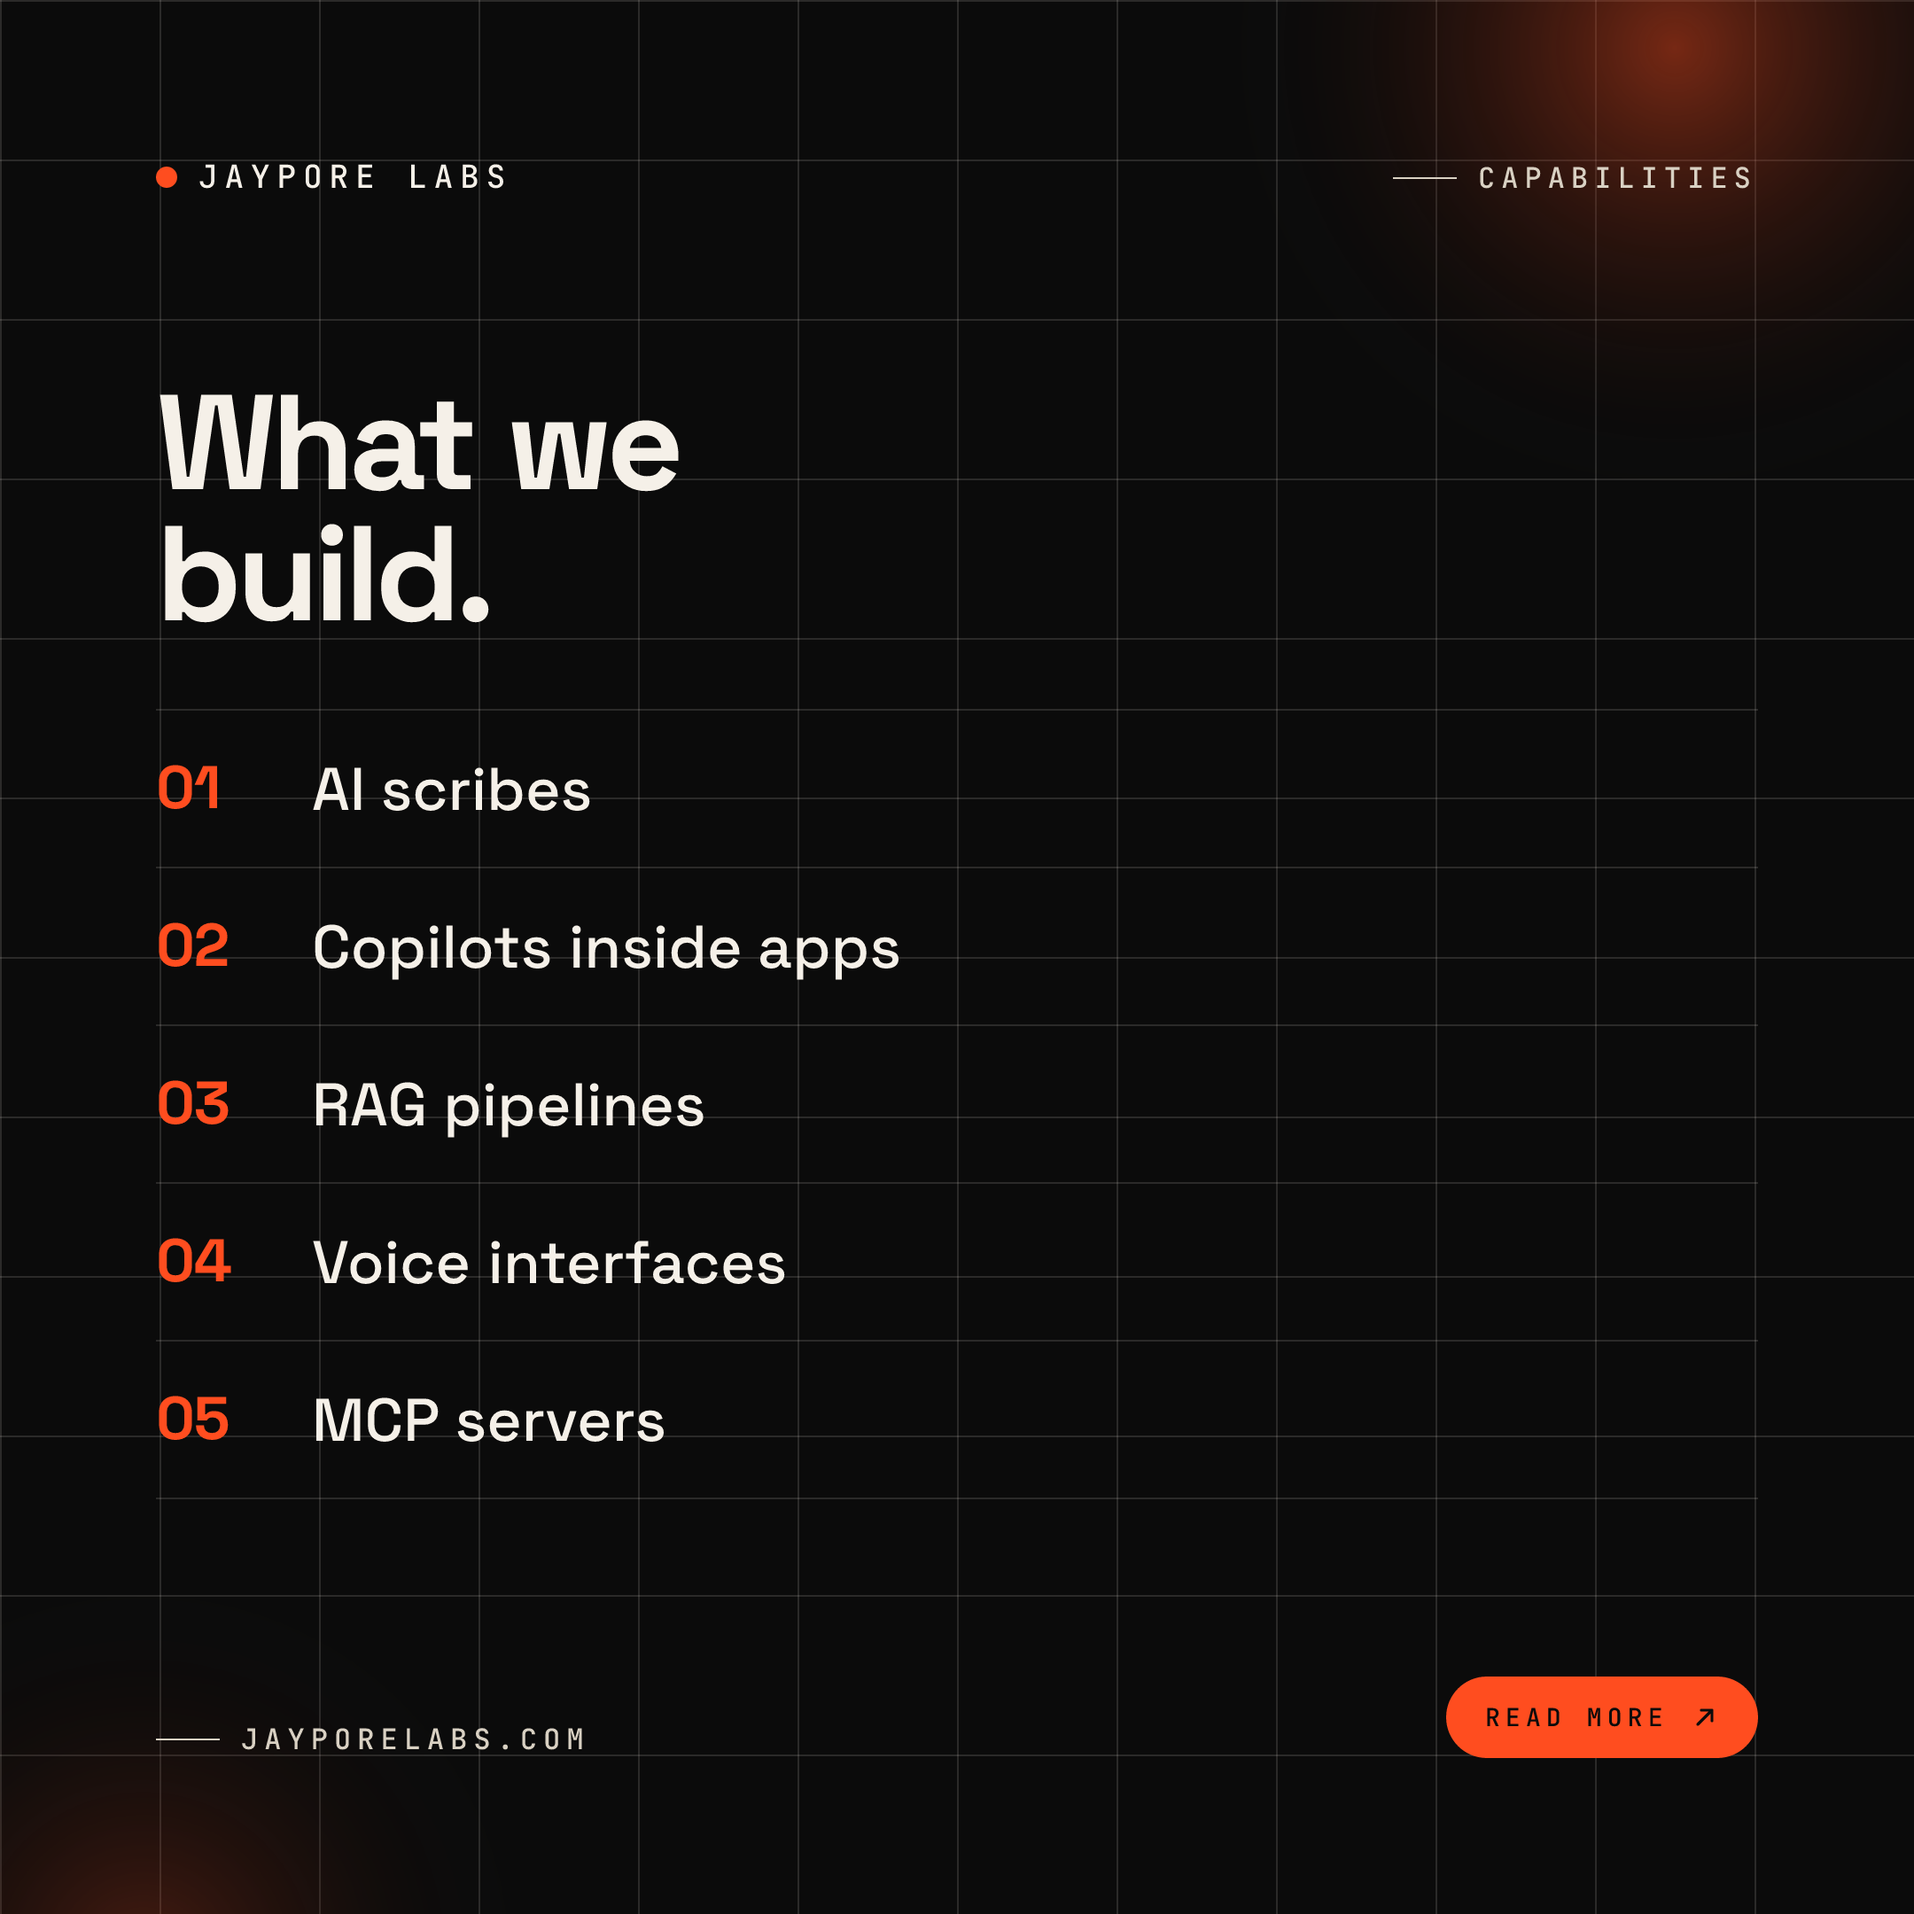
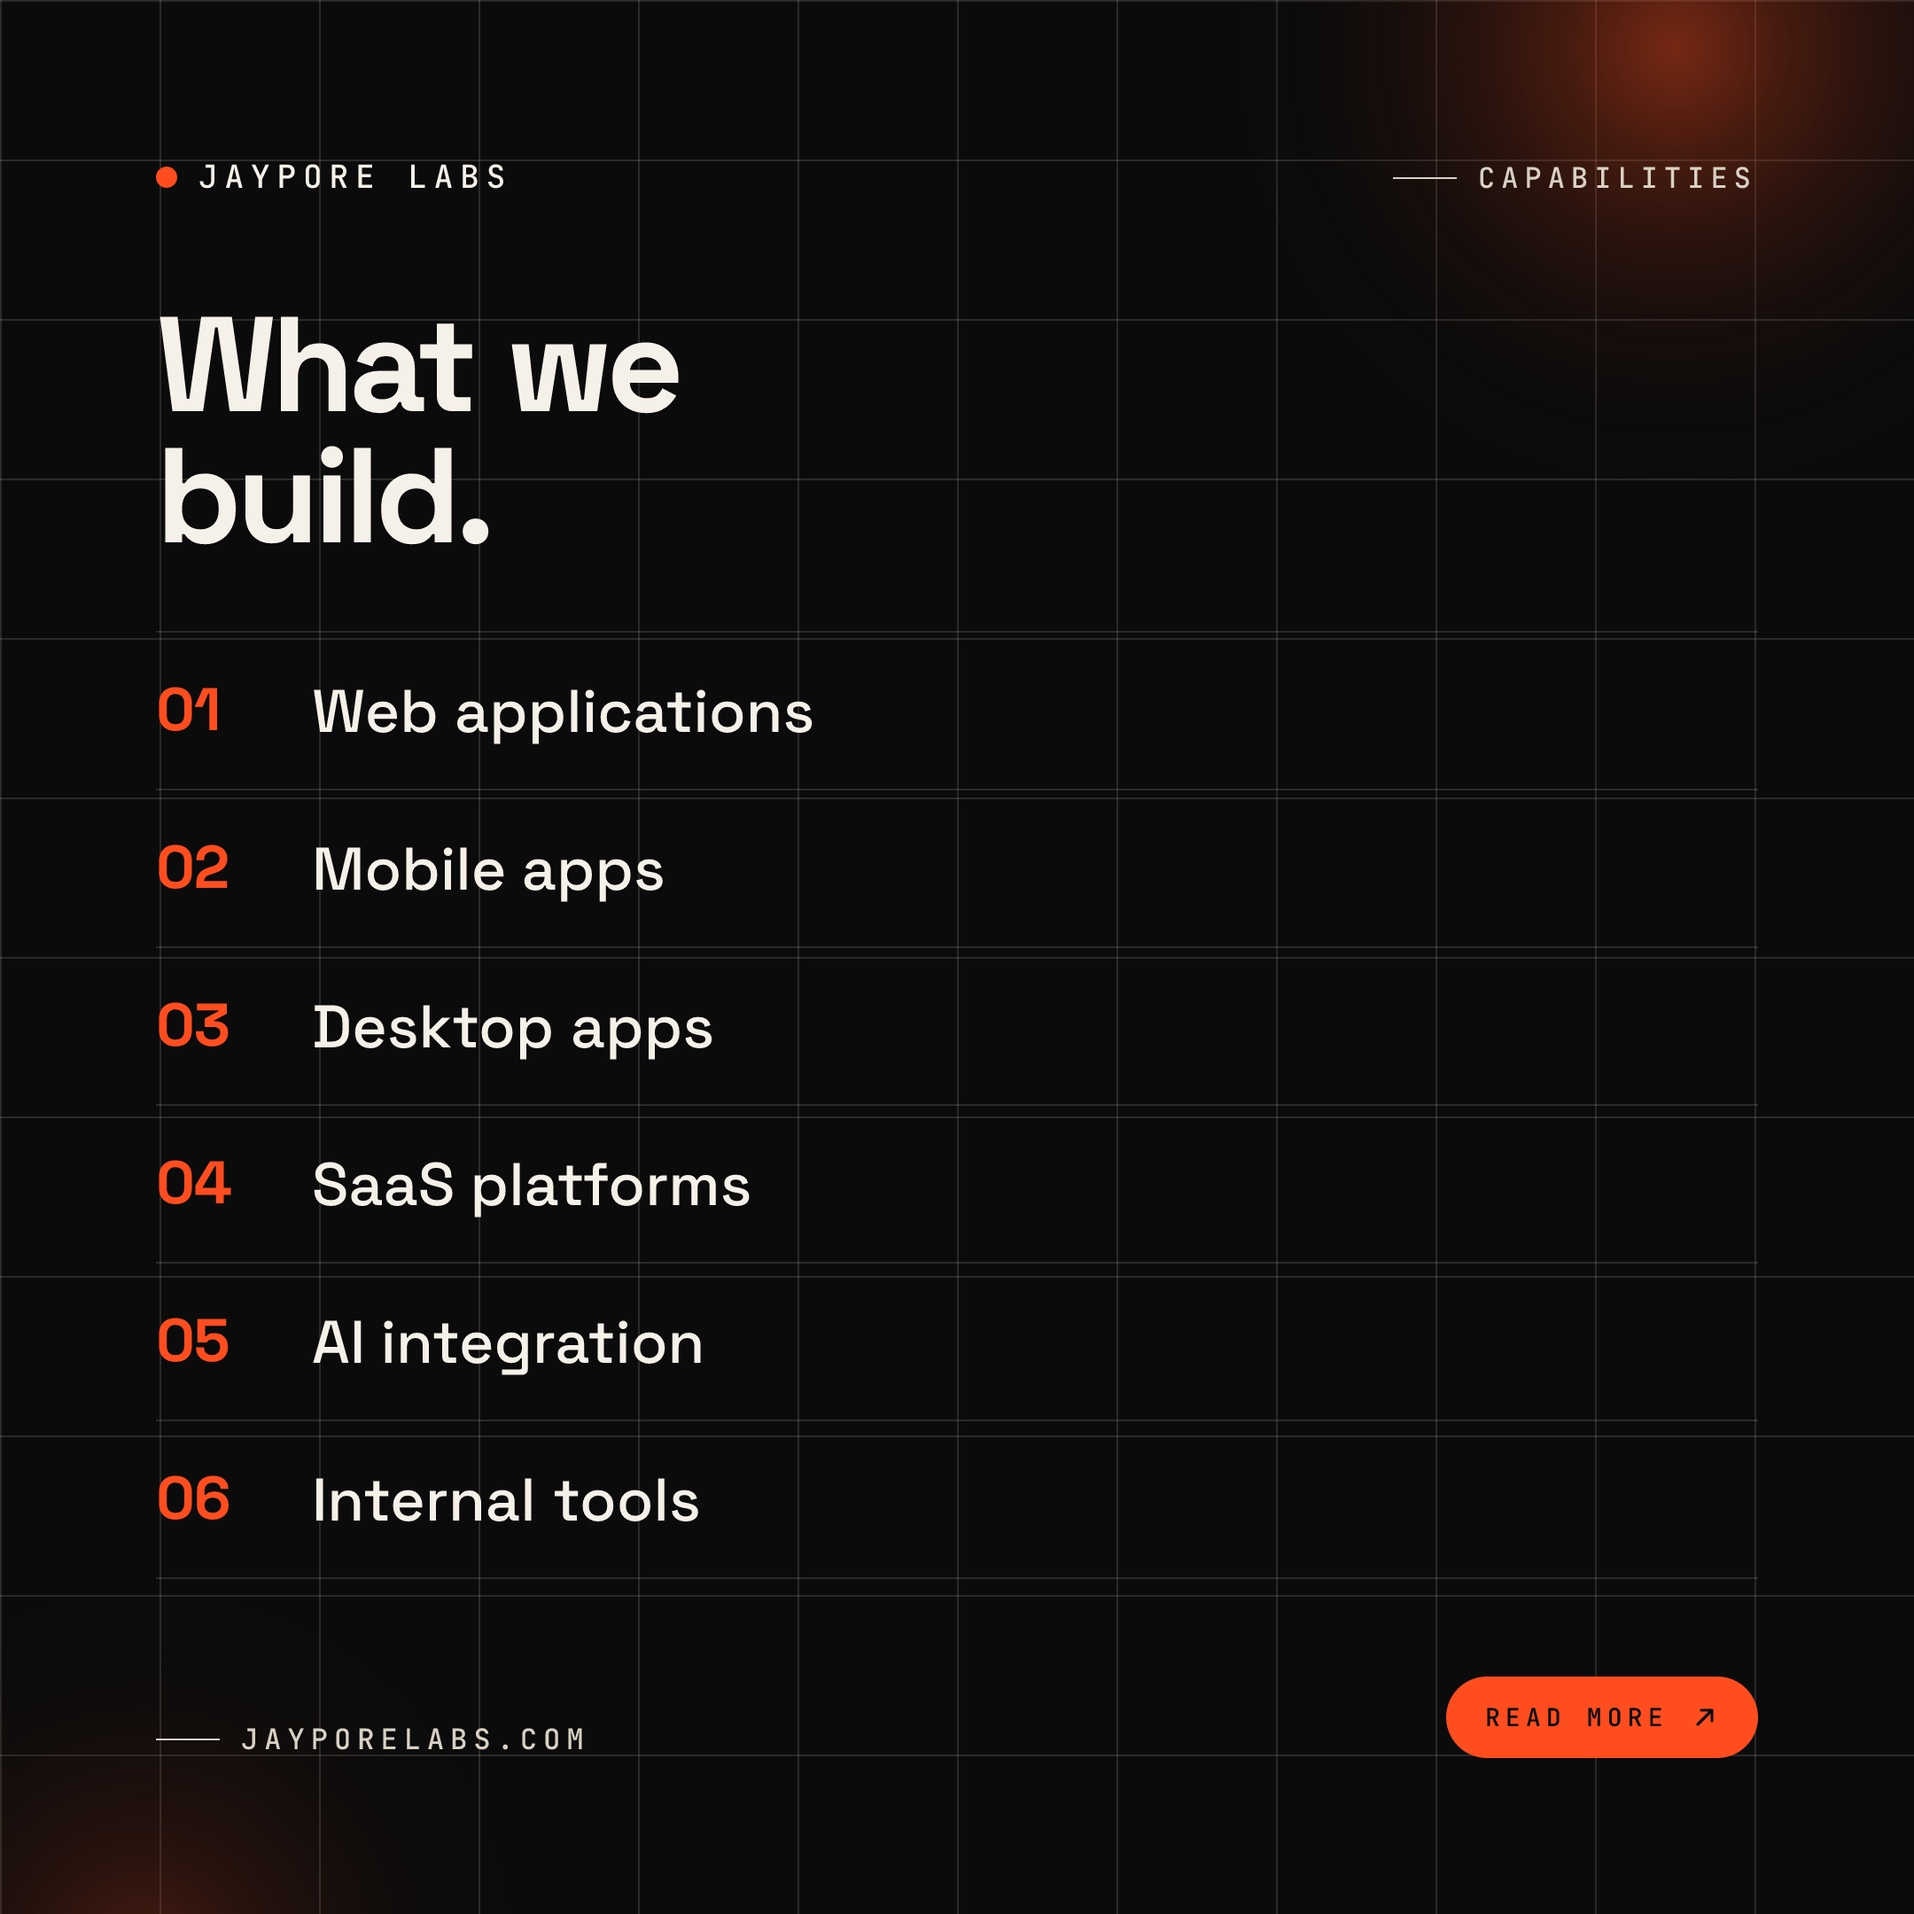
feat: generalize capability + outcome images
User feedback: "What we build" and scribe stat images too narrow.
Broaden to span the full studio.

- IG grid 04 — was list of AI-specific capabilities (scribes, copilots,
  RAG, voice, MCP). Now: Web applications, Mobile apps, Desktop apps,
  SaaS platforms, AI integration, Internal tools.
- IG grid 03 — was "3 hrs saved per doctor" (scribe-specific). Now:
  "50+ products shipped" spanning healthcare, productivity, enterprise,
  research.
- LI featured-3 — was scribe outcome. Now: track record (50+ products).
- social/out/stat-square.png regenerated to match.
- Hero rotating words broadened: web, SaaS, desktop, mobile, internal
  tools, APIs, AI integration, design systems (only one AI-leading
  phrase, was six).
- READMEs updated with new filenames + regenerated post body copy for
  IG grid 03, 04 and LI featured 3.

Changed region(s): [[0.062, 0.1551, 0.4653, 0.8065]]

diff --git a/src/components/sections/hero.tsx b/src/components/sections/hero.tsx
@@ -14,14 +14,14 @@ import {
 import { heroSpecimens } from "@/data/site";
 
 const rotatingWords = [
+  "web applications",
   "SaaS platforms",
-  "AI scribes",
-  "copilots inside apps",
-  "RAG pipelines",
-  "voice interfaces",
-  "MCP servers",
   "desktop apps",
+  "mobile apps",
   "internal tools",
+  "API platforms",
+  "AI integration",
+  "design systems",
 ];
 
 const SPEC_ACCENTS = ["#FF4D1F", "#FFD166", "#8BE9FD", "#B5E48C", "#C77DFF"];

diff --git a/social/linkedin/README.md b/social/linkedin/README.md
@@ -18,7 +18,7 @@ All assets are rendered at 2× or 3× their logical size so they stay razor-shar
 | `cover-banner-company.png` | 1128×191 | **3384×573** | Optional — LinkedIn's exact company banner spec, rendered at 3× for sharpness. |
 | `featured-1-positioning.png` | 1600×900 | **3200×1800** | Featured section slot 1 — positioning statement. |
 | `featured-2-engagement.png` | 1600×900 | **3200×1800** | Featured section slot 2 — three engagement models. |
-| `featured-3-scribe.png` | 1600×900 | **3200×1800** | Featured section slot 3 — AI scribe outcome. |
+| `featured-3-track-record.png` | 1600×900 | **3200×1800** | Featured section slot 3 — 50+ products shipped. |
 
 ---
 
@@ -147,17 +147,21 @@ Pair each image with a ~150-word post. Rough drafts you can edit:
 >
 > #AIEngineering #AIEnablement #Engagement
 
-### Post 3 — with `featured-3-scribe.png`
+### Post 3 — with `featured-3-track-record.png`
 
-> Three hours saved per doctor, every day.
+> 50+ products. Eight years. Four continents.
 >
-> That's a typical outcome for a well-built AI scribe — listening, structuring the note, mapping to codes, handing it back before the clinician leaves the room.
+> Web, mobile, desktop, SaaS, AI — across healthcare, productivity, enterprise, research. The stack changes. The discipline doesn't.
 >
-> The hard part is never the LLM. It's the plumbing — privacy, EHR integration, specialty-specific templates, the eval harness that catches drift month-over-month. That's where we spend our time: AI where it earns its keep, boring software everywhere else.
+> What we've learned shipping that many products at a small studio:
 >
-> If you're building a scribe (or thinking about one), our DMs are open.
+> → Pick the surface before you pick the stack. A clinic workflow needs desktop; a founder's onboarding needs web; both might need a copilot.
+> → Ship something usable in week four, every time. Scope collapses to fit. That's a feature, not a bug.
+> → Industry-first, then AI-first. We learn the business before we learn the codebase.
 >
-> #AIScribe #ClinicalAI #MedicalAI
+> If you're building something — AI-enabled or just software that works — say hi.
+>
+> #ProductStudio #Software #Engineering #AI
 
 ---
 
@@ -215,12 +219,12 @@ npm run gen:post -- --template list --size landscape \
   --kicker "How to work with us" \
   --out social/linkedin/featured-2-engagement.png
 
-# featured — field note
+# featured — track record
 npm run gen:post -- --template stat --size landscape \
-  --stat "3 hrs" --label "saved per doctor, daily." \
-  --subtitle "A typical outcome for a well-built scribe. The plumbing matters more than the model." \
-  --kicker "Field note" \
-  --out social/linkedin/featured-3-scribe.png
+  --stat "50+" --label "products shipped." \
+  --subtitle "Web, desktop, mobile, SaaS, AI — across four continents. Industry-first engineering since 2017." \
+  --kicker "Track record" \
+  --out social/linkedin/featured-3-track-record.png
 ```
 
 Want a new angle? See [`.claude/skills/post-image.md`](../../.claude/skills/post-image.md) for every template/size.

diff --git a/social/instagram/README.md b/social/instagram/README.md
@@ -97,31 +97,32 @@ Or post sequentially over 9 days (recommended pace for a new account) at 10am IS
 
 ---
 
-> **03-scribe-stat.png** — 3 hours, saved daily
+> **03-track-record.png** — 50+ products shipped
 >
-> Three hours, per doctor, every day.
+> Eight years. 50+ products in production.
 >
-> That's a typical outcome for a well-built AI scribe — listening, structuring the note, mapping to codes, handing it back before the clinician leaves the room.
+> Across healthcare, productivity, enterprise, and research — web, mobile, desktop, SaaS, AI integration, internal tools. Founders on day one. Global consumer brands. Clinics in Europe. Research teams across three continents.
 >
-> The hard part is never the LLM. It's the plumbing — privacy, EHR integration, specialty templates, the eval harness that catches drift. That's where we spend our time: AI where it earns its keep, boring software everywhere else.
+> The common thread isn't the stack. It's industry-first engineering: we learn your business before we touch the code.
 >
-> #AIScribe #ClinicalAI #MedicalAI #HealthcareTech
+> #ProductStudio #EngineeringCulture #Software #AI
 
 ---
 
 > **04-capabilities.png** — What we build
 >
-> Five shapes we build most often. All AI-enabled, all grounded in real workflows:
+> Six shapes we build most often:
 >
-> · AI scribes — specialty-tuned, eval-gated
-> · Copilots inside apps — streaming, tool-calling, structured output
-> · RAG pipelines — vector search, rerankers, evaluations
-> · Voice interfaces — real-time STT/TTS, wake-word, diarisation
-> · MCP servers — plug in to Claude, Cursor, IDEs
+> · Web applications — Next.js, React, type-safe, shipped weekly
+> · Mobile apps — React Native, Expo, one codebase
+> · Desktop apps — Electron, offline-first, auto-update
+> · SaaS platforms — MVP to production, multi-tenant, billing
+> · AI integration — scribes, copilots, agents, RAG, voice
+> · Internal tools — admin, dashboards, workflow automation
 >
 > If you're thinking about any of these, our DMs are open.
 >
-> #AIEngineering #AIProducts #AIScribe #Copilots #RAG #MCP
+> #ProductStudio #Engineering #SaaS #AI #WebDevelopment
 
 ---
 
@@ -216,7 +217,7 @@ Highlights are the pinned reels above the feed. They let visitors jump to catego
 
 | Week | Mon | Wed | Fri |
 | --- | --- | --- | --- |
-| 1 | `01-welcome` | `03-scribe-stat` | `05-playbook` (carousel) |
+| 1 | `01-welcome` | `03-track-record` | `05-playbook` (carousel) |
 | 2 | `02-manifesto` | `04-capabilities` | `06-no-buzzword` |
 | 3 | `07-ship-weekly` | `08-first-reply` | `09-industry-first` |
 | 4 | Daily-article carousel #1 | carousel #2 | Field-note single post |
